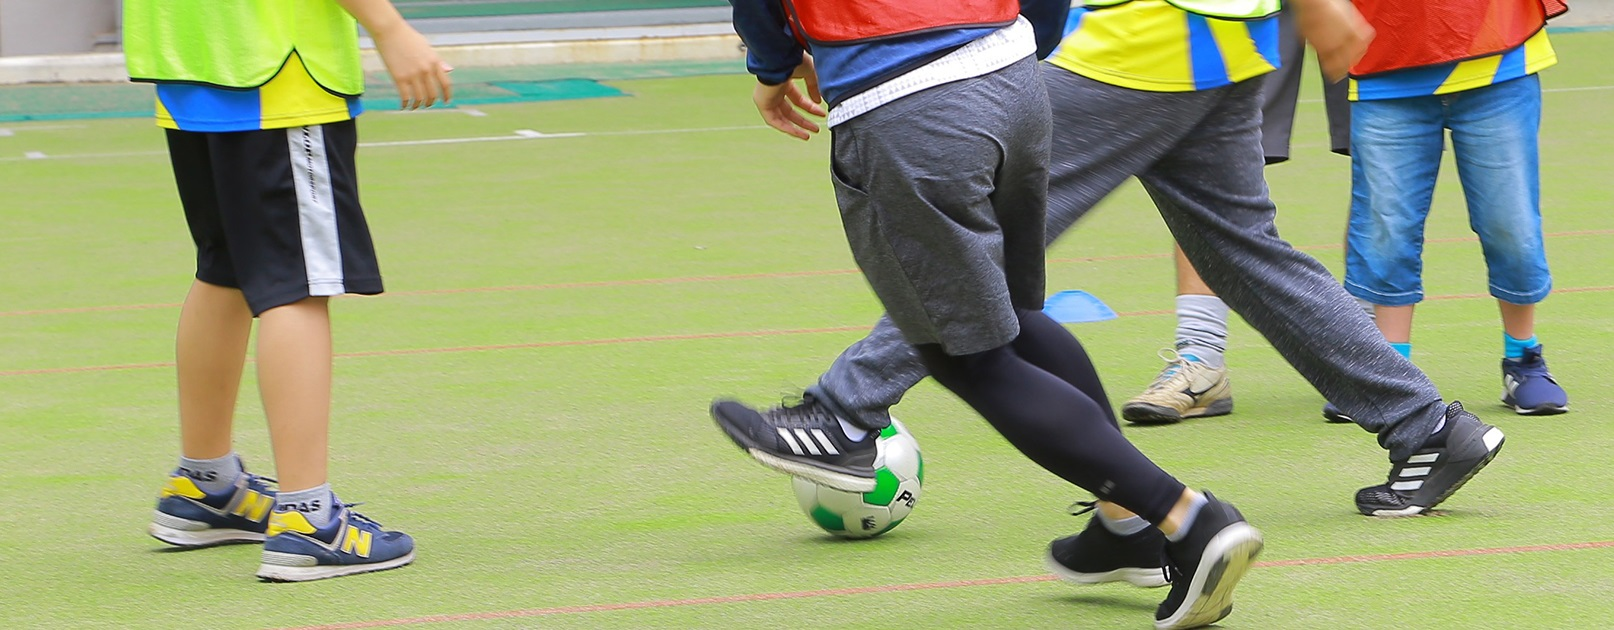
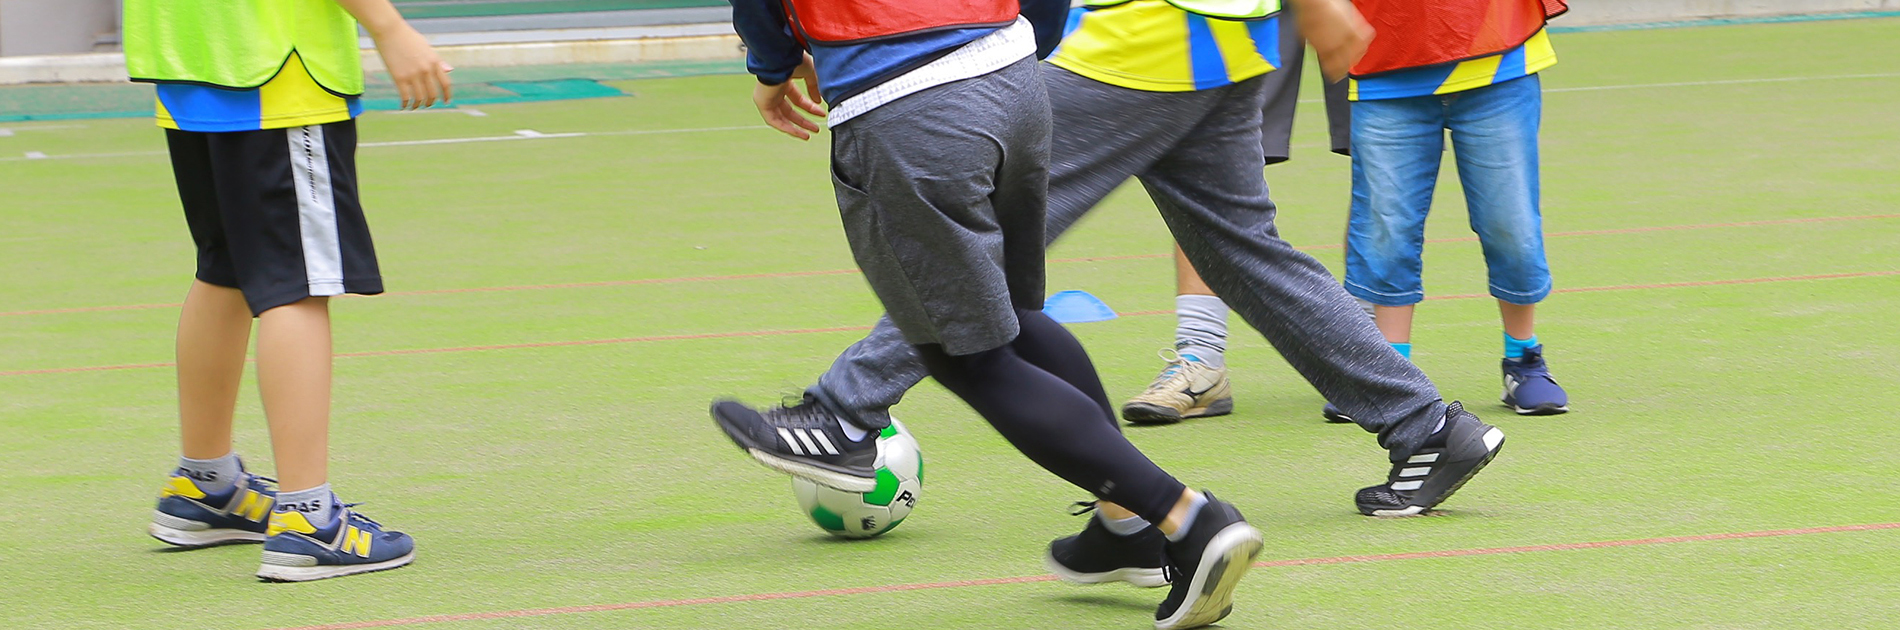
img minify

diff --git a/common/css/main.css b/common/css/main.css
@@ -231,7 +231,7 @@ ul.globalNav__menu > li.current:before{
 
 .mainVisual__img{
     box-sizing:content-box;
-    background-image: url(https://pigeon-soccer.github.io/common/images/index_mv_001.jpg);
+    background-image: url(https://pigeon-soccer.github.io/common/images/index_mv_001_mini.jpg);
     background-size: cover;
     height: 100%;
 }
@@ -515,7 +515,7 @@ ul.commonInner__solution > li dd{
 }
 
 .commonSection-mission{
-    background-image: url("https://pigeon-soccer.github.io/common/images/people_handShake.JPG");
+    background-image: url("https://pigeon-soccer.github.io/common/images/index_ph_004_all.JPG");
     background-size: cover;
     color: white;
 }
@@ -1000,7 +1000,7 @@ ul.snsWrapper__btn:before{
 	top:-63px;
 	width:270px;
 	height:60px;
-	background: url(../images/follow_me.png) no-repeat;
+	background: url(../images/sns/follow_me.png) no-repeat;
     background-size: 75%;
 }
 ul.snsWrapper__btn > li{
@@ -1048,14 +1048,14 @@ ul.snsWrapper__btn > li.snsBtn__tw a:before{
 	height:32px;
 	margin-top:-15px;
 	margin-left:-18px;
-	background:url(../images/index_ic-sns_001.png) no-repeat;
+	background:url(../images/sns/twitter.png) no-repeat;
 }
 ul.snsWrapper__btn > li.snsBtn__fb a:before{
 	width:22px;
 	height:44px;
 	margin-top:-22px;
 	margin-left:-12px;
-	background:url(../images/index_ic-sns_002.png) no-repeat;
+	background:url(../images/sns/facebook.png) no-repeat;
 }
 footer .footer-infomation{
 	color: white;
@@ -1336,7 +1336,7 @@ footer .footer-infomation .pageTop-up a,ul.snsWrapper__btn > li a:hover,.snsPriv
         max-height: 300px;
         object-fit: cover;
 */
-        background-image: url("https://pigeon-soccer.github.io/common/images/index_mv_001.jpg");
+        background-image: url("https://pigeon-soccer.github.io/common/images/index_mv_001_mini.jpg");
         background-size: cover;
     }
 	/* ▽ スクロール（down）ボタン ▽ */

diff --git a/about/index.html b/about/index.html
@@ -96,7 +96,7 @@ j=d.createElement(s),dl=l!='dataLayer'?'&l='+l:'';j.async=true;j.src=
 				<h2>代表の紹介</h2>
 				<div class="commonInner__introduce">
 					<dl class="introduce__profile">
-                        <img src="https://pigeon-soccer.github.io/common/images/index_ph_001.png">
+                        <img src="https://pigeon-soccer.github.io/common/images/staff/index_ph_001.png">
 						<dt>
 							<p class="introduce__position">代表</p>
 							<p class="introduce__name">武藤 太智（Muto Taichi）</p>
@@ -104,7 +104,7 @@ j=d.createElement(s),dl=l!='dataLayer'?'&l='+l:'';j.async=true;j.src=
 						<dd class="introduce__career">A.C.ammaliatoreでの経歴社会人・小学生・幼児のカテゴリーを指導指導経歴東京大学、向丘高等学校、日本橋高等学校、文京区中学選抜、東京都４支部中学選抜、板橋区第三中学校、城北クラブ、駒沢ＦＣ日本サッカー協会公認ライセンス取得副</dd>
 					</dl>
 					<dl class="introduce__profile">
-                        <img src="https://pigeon-soccer.github.io/common/images/index_ph_002.png">
+                        <img src="https://pigeon-soccer.github.io/common/images/staff/index_ph_002.png">
 						<dt>
 							<p class="introduce__position">副代表</p>
 							<p class="introduce__name">鈴木 祐揮（Suzuki Yuuki）</p>

diff --git a/index.html b/index.html
@@ -43,7 +43,7 @@ j=d.createElement(s),dl=l!='dataLayer'?'&l='+l:'';j.async=true;j.src=
 							</div>
 							<p class="commonDetailBtn"><a href="https://pigeon-soccer.github.io/about/">どんな団体？</a></p>
 						</div>
-						<figure class="summary__img"><img src="https://pigeon-soccer.github.io/common/images/index_top-im001.jpg" alt=""/></figure>
+						<figure class="summary__img"><img src="https://pigeon-soccer.github.io/common/images/index_top-im001_mini.jpg" alt=""/></figure>
 					</div>
 					<p class="commonDetailBtn__sp"><a href="https://pigeon-soccer.github.io/about/">どんな団体？</a></p>
 				</section><!--/summary summary-personality-->
@@ -57,7 +57,7 @@ j=d.createElement(s),dl=l!='dataLayer'?'&l='+l:'';j.async=true;j.src=
 							</div>
 							<p class="commonDetailBtn"><a href="https://pigeon-soccer.github.io/activity/">教室で何をする？</a></p>
 						</div>
-						<figure class="summary__img"><img src="https://pigeon-soccer.github.io/common/images/index_top-im002.jpg" alt=""/></figure>
+						<figure class="summary__img"><img src="https://pigeon-soccer.github.io/common/images/index_top-im002_mini.jpg" alt=""/></figure>
 					</div>
 					<p class="commonDetailBtn__sp"><a href="https://pigeon-soccer.github.io/activity/">教室で何をする？</a></p>
 				</section>

diff --git a/form/index.html b/form/index.html
@@ -53,9 +53,11 @@ j=d.createElement(s),dl=l!='dataLayer'?'&l='+l:'';j.async=true;j.src=
 							<li class="snsBtn__fb"><a href="DUMMY"></a></li>
 						    </ul>
 						</div>
+<!--
 						<p><span class="tabContent__box__PrivateQuestion">Peing質問箱</span></p>
 						<p>Twitterログイン不要・匿名でのご質問を受け付けております。</p>
-						<div class="snsPrivateQuestion"><a href="https://peing.net/ja/masatoemata?event=0"><img src="https://pigeon-soccer.github.io/common/images/sns-peing.png" alt="障がい児のためのサッカークラブ Pigeon-peing質問箱"/></a></div>
+						<div class="snsPrivateQuestion"><a href="https://peing.net/ja/masatoemata?event=0"><img src="https://pigeon-soccer.github.io/common/images/sns/peing.png" alt="障がい児のためのサッカークラブ Pigeon-peing質問箱"/></a></div>
+-->
 					</li>
 				</ul>
 			</div>

diff --git a/footer.html b/footer.html
@@ -16,7 +16,7 @@
 	<div class="footer-infomation">
 		<div class="pageTop-up"><a href="#top">トップへ</a></div>
 		<div class="commonInner">
-            <div class="footer-infomation__logo"><a href="https://pigeon-soccer.github.io/"><img src="https://pigeon-soccer.github.io/common/images/npo-pigeon-soccer-club.jpg" alt="logo"/></a></div>
+            <div class="footer-infomation__logo"><a href="https://pigeon-soccer.github.io/"><img src="https://pigeon-soccer.github.io/common/images/logo/logo_club_fullname_mini.jpg" alt="logo"/></a></div>
             <p class="copyright">Pigeonは、お子さんとご両親のプライバシーを尊重し、許可なく個人が特定される写真などは使用しません。<br>© 2019 pigeon</p>
         </div>
 	</div>

diff --git a/header.html b/header.html
@@ -1,7 +1,7 @@
 <div class="navWrapper">
 	<div class="navWrapper__logo">
 		<a href="https://pigeon-soccer.github.io/">
-			<img src="https://pigeon-soccer.github.io/common/images/logo/logo_club_fullname_skeleton.png" alt="障がい児のためのサッカークラブ Pigeon">
+			<img src="https://pigeon-soccer.github.io/common/images/logo/logo_club_fullname_skeleton_mini.png" alt="障がい児のためのサッカークラブ Pigeon">
 		</a>
 	</div>
 	<nav class="globalNav">
